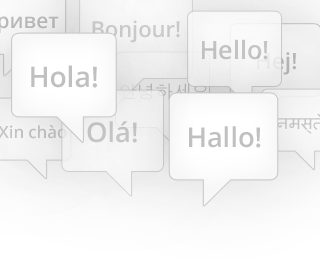
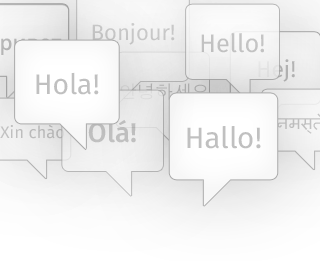
Bug 823472 - Replace bubbles image

diff --git a/apps/communications/ftu/css/style.css b/apps/communications/ftu/css/style.css
@@ -266,7 +266,7 @@ html, body {
 */
 
 #languages [data-type="list"] {
-  background: url(images/bg_bubbles.png) 0 -4.5rem no-repeat;
+  background: url(images/bg_bubbles.png) no-repeat;
   background-size: 100% auto;
   padding-top: 14rem;
 }
